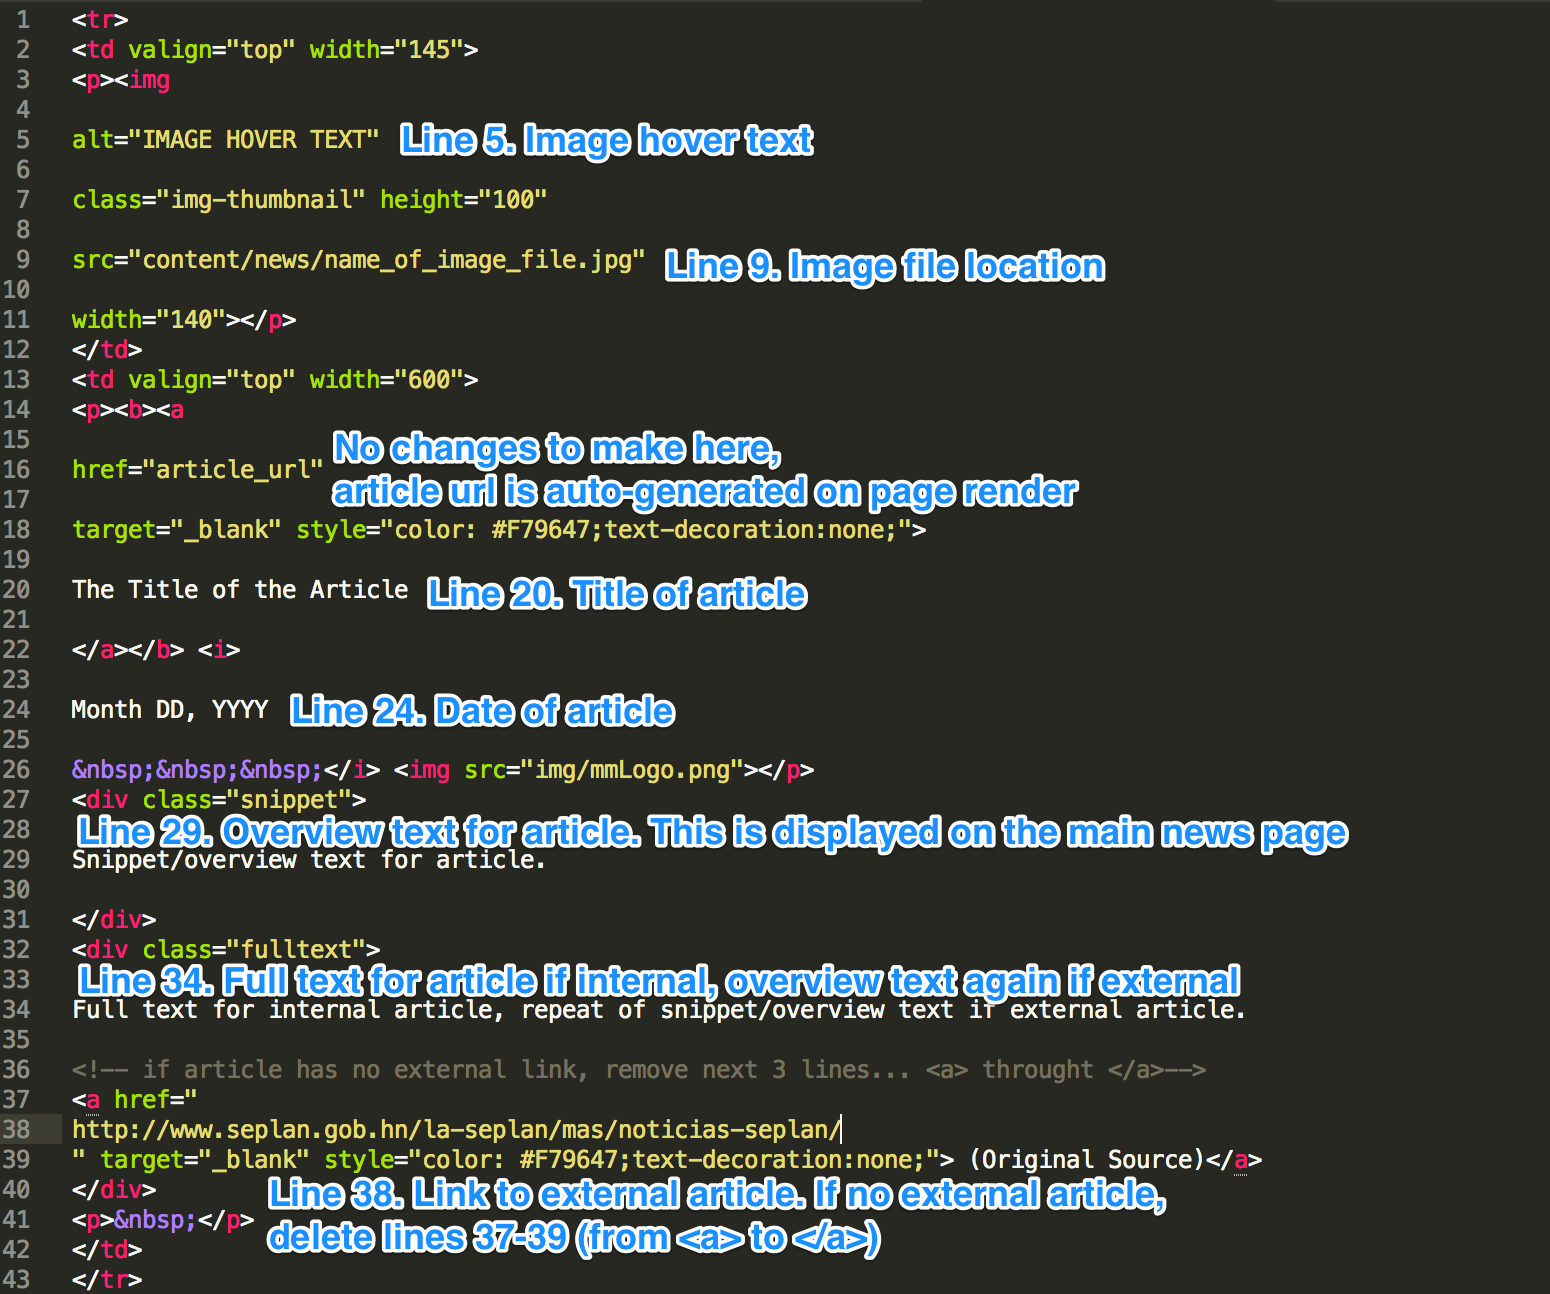
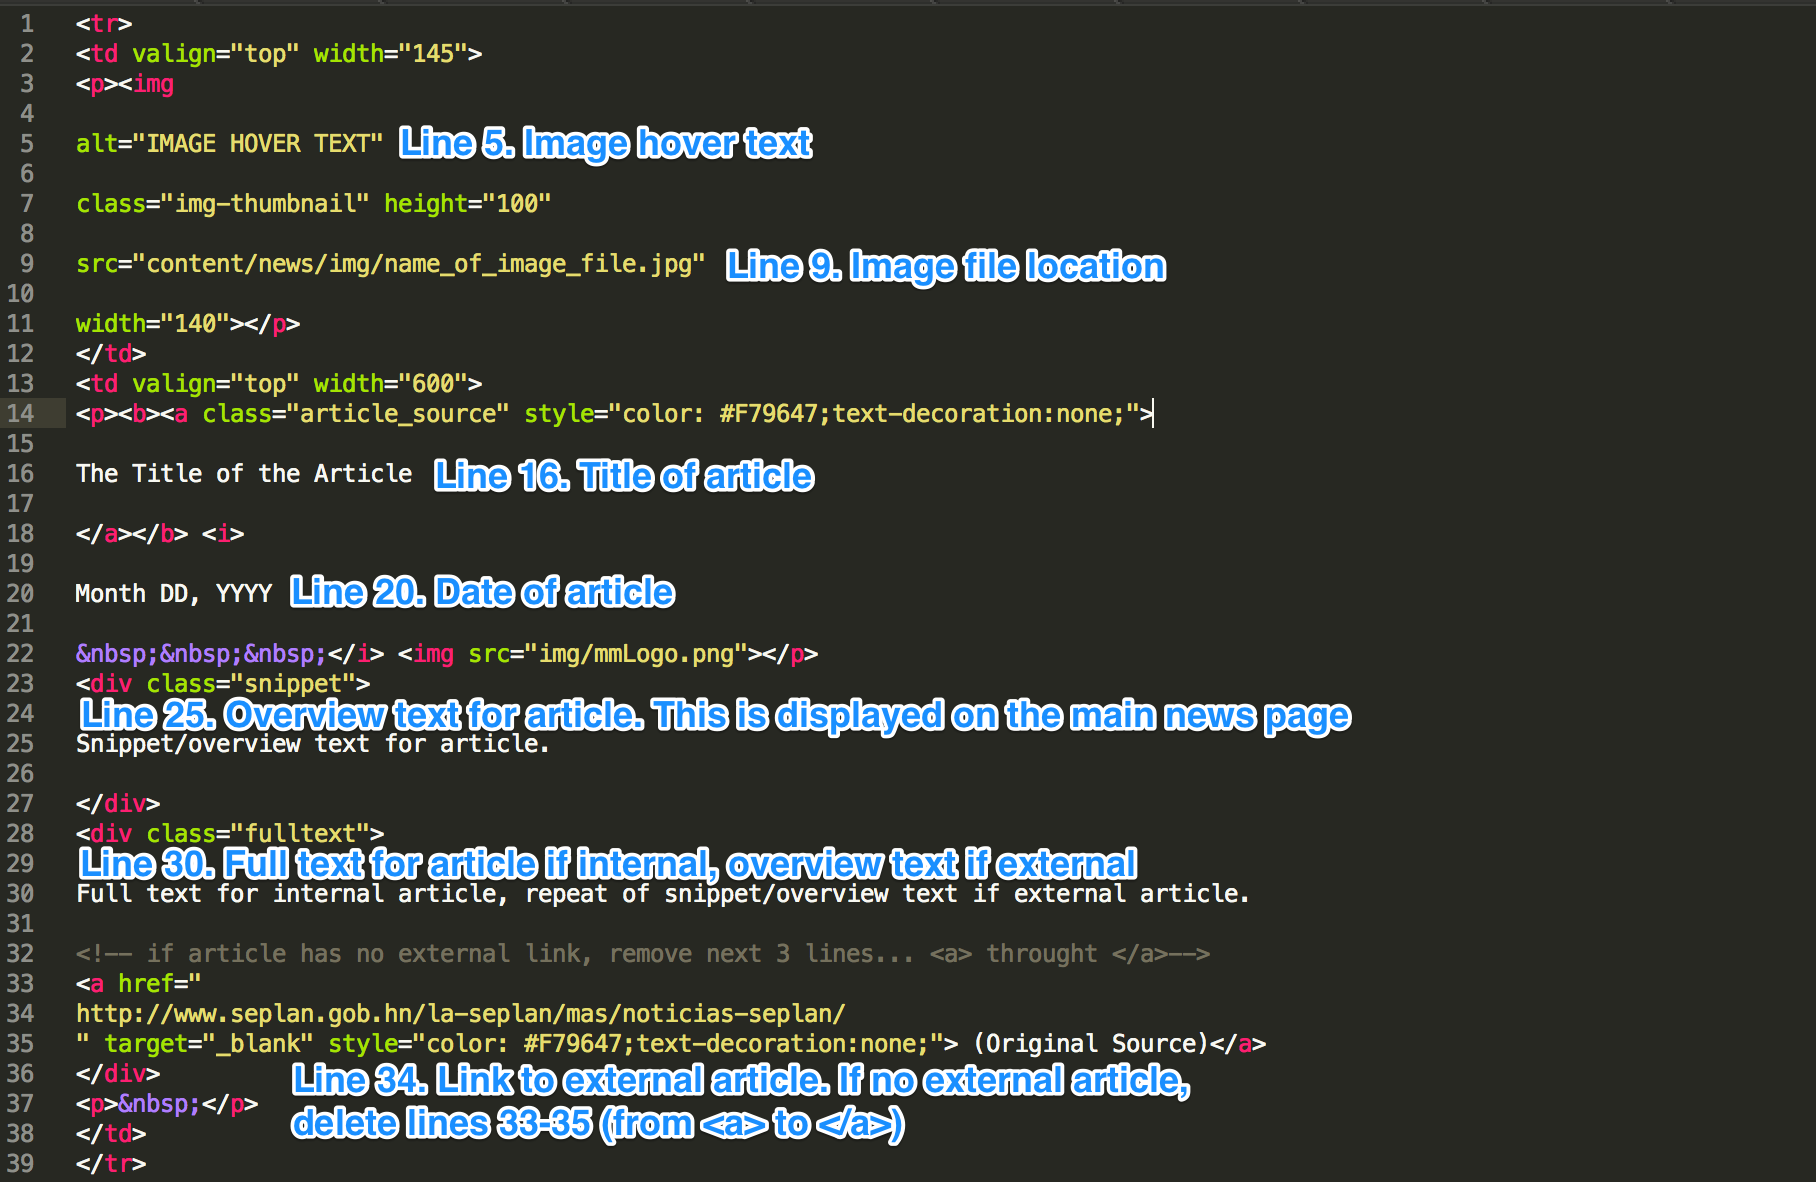
Squashed 'content/' changes from 0f9bb50..58030aa
58030aa fixes to articles link archors

git-subtree-dir: content
git-subtree-split: 58030aa50602b14be92a92ab6178110cb7a4e5d5

Changed region(s): [[0.0, 0.0, 0.8671, 1.0]]

diff --git a/news/2011-11-25-oap-in-busan.html b/news/2011-11-25-oap-in-busan.html
@@ -11,11 +11,7 @@ src="content/news/img/kids.jpg"
 width="140"></p>
 </td>
 <td valign="top" width="600">
-<p><b><a 
-
-href="article_url"
-
-target="_blank" style="color: #F79647;text-decoration:none;">
+<p><b><a class="article_source" style="color: #F79647;text-decoration:none;">
 
 Open Aid Partnership: World Bank and Partners call for Open Collaborative Maps to Improve Development Aid Impact
 

diff --git a/news/2012-02-29-mapping-tool.html b/news/2012-02-29-mapping-tool.html
@@ -11,11 +11,7 @@ src="content/news/img/mapping-tool.jpg"
 width="140"></p>
 </td>
 <td valign="top" width="600">
-<p><b><a 
-
-href="article_url"
-
-target="_blank" style="color: #F79647;text-decoration:none;">
+<p><b><a class="article_source" style="color: #F79647;text-decoration:none;">
 
 Mapping Tool Analyzes How Climate Change, Conflict, And Aid Intersect
 

diff --git a/news/2011-11-30-sanjay-pradhan-in-busan.html b/news/2011-11-30-sanjay-pradhan-in-busan.html
@@ -11,11 +11,7 @@ src="content/news/img/world-map.jpg"
 width="140"></p>
 </td>
 <td valign="top" width="600">
-<p><b><a 
-
-href="article_url"
-
-target="_blank" style="color: #F79647;text-decoration:none;">
+<p><b><a class="article_source" style="color: #F79647;text-decoration:none;">
 
 Blog Post: Sanjay Pradhan from the Aid Effectiveness Forum in Busan
 

diff --git a/news/2012-03-13-czech-endorsement.html b/news/2012-03-13-czech-endorsement.html
@@ -11,11 +11,7 @@ src="content/news/img/czech-flag.jpg"
 width="140"></p>
 </td>
 <td valign="top" width="600">
-<p><b><a 
-
-href="article_url"
-
-target="_blank" style="color: #F79647;text-decoration:none;">
+<p><b><a class="article_source" style="color: #F79647;text-decoration:none;">
 
 The Czech Development Agency has endorsed the Open Aid Partnership
 

diff --git a/news/2012-04-26-stockholm-workshop.html b/news/2012-04-26-stockholm-workshop.html
@@ -11,11 +11,7 @@ src="content/news/img/microphones.jpg"
 width="140"></p>
 </td>
 <td valign="top" width="600">
-<p><b><a 
-
-href="article_url"
-
-target="_blank" style="color: #F79647;text-decoration:none;">
+<p><b><a class="article_source" style="color: #F79647;text-decoration:none;">
 
 Interactive Mapping of Development Projects - Technical Workshop
 

diff --git a/news/2012-08-20-interaction-endorses.html b/news/2012-08-20-interaction-endorses.html
@@ -11,11 +11,7 @@ src="content/news/img/InterAction-logo.jpg"
 width="140"></p>
 </td>
 <td valign="top" width="600">
-<p><b><a 
-
-href="article_url"
-
-target="_blank" style="color: #F79647;text-decoration:none;">
+<p><b><a class="article_source" style="color: #F79647;text-decoration:none;">
 
 InterAction has endorsed the Open Aid Partnership
 

diff --git a/news/2012-04-09-openness.html b/news/2012-04-09-openness.html
@@ -11,11 +11,7 @@ src="content/news/img/group.jpg"
 width="140"></p>
 </td>
 <td valign="top" width="600">
-<p><b><a 
-
-href="article_url"
-
-target="_blank" style="color: #F79647;text-decoration:none;">
+<p><b><a class="article_source" style="color: #F79647;text-decoration:none;">
 
 New Blog Post: Openness for Whom? and Openness for What?
 

diff --git a/news/2011-10-06-mapping-for-results.html b/news/2011-10-06-mapping-for-results.html
@@ -11,11 +11,7 @@ src="content/news/img/mapping-for-results.jpg"
 width="140"></p>
 </td>
 <td valign="top" width="600">
-<p><b><a 
-
-href="article_url"
-
-target="_blank" style="color: #F79647;text-decoration:none;">
+<p><b><a class="article_source" style="color: #F79647;text-decoration:none;">
 
 Blog Post: Mapping for Results
 

diff --git a/news/2012-09-26-ONE-endorses.html b/news/2012-09-26-ONE-endorses.html
@@ -11,11 +11,7 @@ src="content/news/img/one-logo.jpg"
 width="140"></p>
 </td>
 <td valign="top" width="600">
-<p><b><a 
-
-href="article_url"
-
-target="_blank" style="color: #F79647;text-decoration:none;">
+<p><b><a class="article_source" style="color: #F79647;text-decoration:none;">
 
 ONE endorses the Open Aid Partnership
 

diff --git a/news/template.html b/news/template.html
@@ -11,11 +11,7 @@ src="content/news/img/name_of_image_file.jpg"
 width="140"></p>
 </td>
 <td valign="top" width="600">
-<p><b><a 
-
-href="article_url"
-
-target="_blank" style="color: #F79647;text-decoration:none;">
+<p><b><a class="article_source" style="color: #F79647;text-decoration:none;">
 
 The Title of the Article
 

diff --git a/news/2012-09-18-helsinki.html b/news/2012-09-18-helsinki.html
@@ -11,11 +11,7 @@ src="content/news/img/helsinki.jpg"
 width="140"></p>
 </td>
 <td valign="top" width="600">
-<p><b><a 
-
-href="article_url"
-
-target="_blank" style="color: #F79647;text-decoration:none;">
+<p><b><a class="article_source" style="color: #F79647;text-decoration:none;">
 
 Partners Meeting in Helsinki
 
